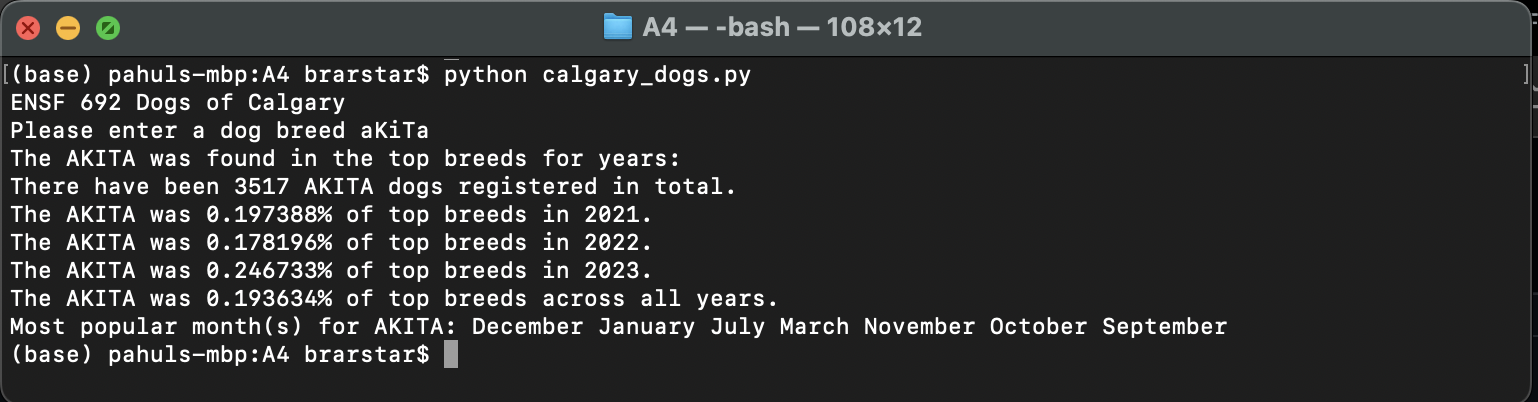
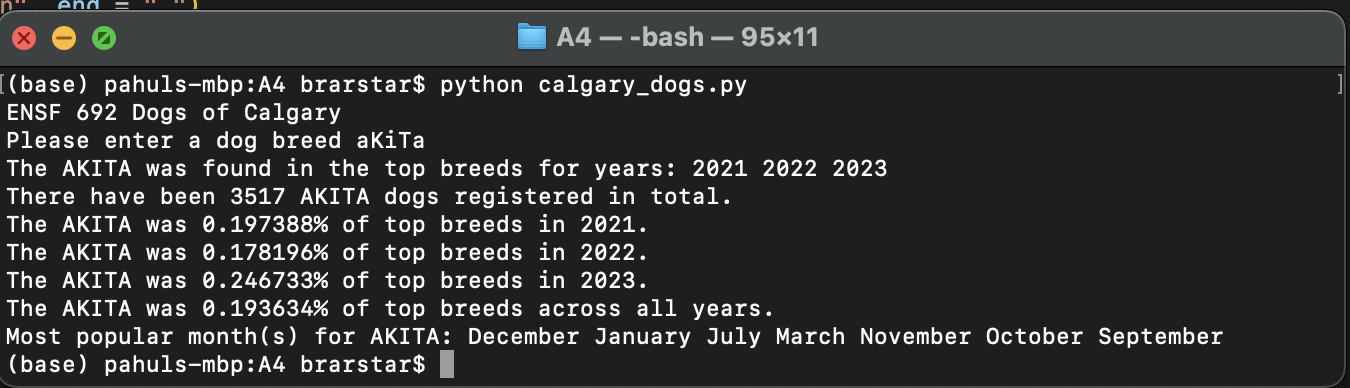
added some more comments

Changed region(s): [[0.0, 0.0, 1.0, 1.0]]

diff --git a/calgary_dogs.py b/calgary_dogs.py
@@ -31,26 +31,11 @@ def main():
             continue
         break
 
-
     # Data anaylsis stage
 
-    #Grouping Data by Year and Breed, also summing total up by year for each breed
-    annualizedData = data.groupby(['Year', 'Breed'], as_index=False)['Total'].sum()
-    
-    # Creating a set for top years for a breed, this ensures that a year only is found once, unique
-    top_years_for_breed = set()
+    selected_breed_data = data[data['Breed'] == selection]
 
-    # Finding the maximum total for each year
-    max_totals_per_year = annualizedData.groupby('Year')['Total'].max()
-
-    for year, max_total in max_totals_per_year.items():
-        totalForSelection = annualizedData.loc[(annualizedData['Breed'] == selection) & (annualizedData['Year'] == year), 'Total']
-        
-        if not totalForSelection.empty and totalForSelection.values[0] == max_total:
-            top_years_for_breed.add(year)
-
-    #Sorting and coverting set of top years for the breed to a list, for output
-    top_years_for_breed = np.sort(list(top_years_for_breed))
+    top_years_for_breed = selected_breed_data.groupby('Year')['Total'].sum().index.tolist()
 
     print("The "+ selection + " was found in the top breeds for years:", end=' ')
     
@@ -66,6 +51,9 @@ def main():
     print(registration.loc[(registration['Breed'] == selection), 'Total'].values[0], end = " ")
     print(selection + " dogs registered in total.")
 
+    #Grouping Data by Year and Breed, also summing total up by year for each breed
+    annualizedData = data.groupby(['Year', 'Breed'], as_index=False)['Total'].sum()
+
     # Creating a MultiIndex DataFrame
     multi_index_df = annualizedData.set_index(['Year', 'Breed'])
 
@@ -79,16 +67,24 @@ def main():
     selectedBreedSum = 0
     allBreedsSum = 0
     
-    #finds and prints the proportion of top breeds for this breed for each year it exists
+     # Iterating over all of the years
     for year in yearData.index:
+        # Initializing counts for the current year to zero
+        selectedBreed = 0
+        allBreeds = 0
+
         if (year, selection) in selectedSubset.index:
+            # If the selected breed exists for this year, get its count
             selectedBreed = selectedSubset.loc[(year, selection), 'Total']
-            allBreeds = yearData.loc[year]
 
-            selectedBreedSum += selectedBreed
-            allBreedsSum += allBreeds
+        # Get the total count for all breeds for this year
+        allBreeds = yearData.loc[year]
 
-            print(f"The {selection} was {((selectedBreed/allBreeds) * 100):.6f}% of top breeds in {year}.")
+        selectedBreedSum += selectedBreed
+        allBreedsSum += allBreeds
+
+        #Printing the proportion of selction for the year for the chosen breed
+        print(f"The {selection} was {((selectedBreed/allBreeds) * 100):.6f}% of top breeds in {year}.")
 
     #Printing the proportion of selction overall for the chosen breed
     print(f"The {selection} was {((selectedBreedSum/allBreedsSum) * 100):.6f}% of top breeds across all years.")
